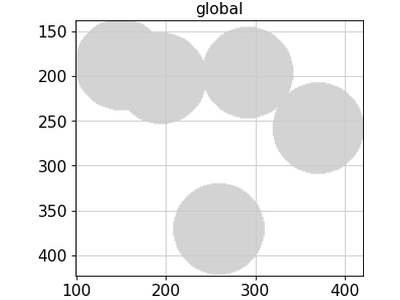
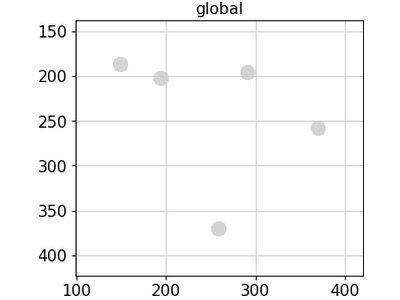
revert(shapes): as_points keeps size-based markers on both backends
Drop the datashader-only circle-radius override for as_points: it made the same
render_shapes(as_points=True, size=...) call diverge between backends (datashader
discs vs matplotlib markers). as_points is a size-controlled speedup; both
backends now use the marker size, matching each other (as the polygon
permutation grid already demonstrates). Restores the pre-override as_points
datashader baseline. Keeps the layout-invariant marker-size fix and the faithful
continuous-color reduction, which are what make the backends agree.

Changed region(s): [[0.18, 0.06, 0.93, 0.6], [0.42, 0.6, 0.66, 0.93]]

diff --git a/tests/pl/test_render_shapes.py b/tests/pl/test_render_shapes.py
@@ -57,13 +57,7 @@ def _annotate_polygons_with_outline_columns(sdata: SpatialData) -> SpatialData:
 
 class TestShapes(PlotTester, metaclass=PlotTesterMeta):
     def test_plot_circle_render_permutations(self, monkeypatch):
-        """2x2 of (geometry / as_points) x (matplotlib / datashader).
-
-        geometry: both backends render the true radius=3 discs. as_points: the datashader backend sizes the
-        dots to the circle radius (so it matches the geometry row), while the matplotlib backend uses the
-        marker ``size`` (scatter markers are display-sized, not data-sized, so it can't cheaply match a
-        world-radius disc) and therefore shows smaller dots — an expected backend difference.
-        """
+        """2x2 of (geometry / as_points) x (matplotlib / datashader); each row should look similar across backends."""
         import spatialdata_plot.pl.render as render_mod
 
         # exercise the datashader circle fast-path (points) on this small uniform set
@@ -1159,17 +1153,16 @@ class TestShapes(PlotTester, metaclass=PlotTesterMeta):
 
     @staticmethod
     def _as_points(sdata_blobs: SpatialData, method: str):
-        # blobs_circles is uniform-radius: the datashader backend sizes the dots to the true disc radius
-        # (so as_points matches the geometry render), while matplotlib uses the marker `size` (scatter
-        # markers are display-sized, not data-sized). The two backends therefore differ for circles.
+        # identical params for both backends; size=120 keeps dots non-overlapping, where the engines agree
+        # (they only diverge on overlap: matplotlib stacks markers, datashader aggregates)
         return sdata_blobs.pl.render_shapes("blobs_circles", as_points=True, method=method, size=120)
 
     def test_plot_shapes_as_points_matplotlib(self, sdata_blobs: SpatialData):
-        """as_points draws one dot per shape at its centroid; matplotlib uses the marker `size`."""
+        """as_points draws one dot per shape at its centroid (matplotlib backend)."""
         self._as_points(sdata_blobs, "matplotlib").pl.show()
 
     def test_plot_shapes_as_points_datashader(self, sdata_blobs: SpatialData):
-        """Datashader sizes uniform-circle as_points dots to the true radius, matching the geometry render."""
+        """Same render via datashader; should look maximally similar to the matplotlib baseline."""
         self._as_points(sdata_blobs, "datashader").pl.show()
 
 

diff --git a/src/spatialdata_plot/pl/render.py b/src/spatialdata_plot/pl/render.py
@@ -768,18 +768,7 @@ def _render_shapes(
         # Fast mode: draw one dot per shape at its centroid instead of its geometry.
         logger.info("`as_points=True`: rendering shape centroids; `outline_*` and `shape` are ignored.")
         centroids = shapes.geometry.centroid  # intrinsic; transform so dots land under non-identity transforms
-        # Uniform-radius circles: size the datashader dots to the true disc so they match the geometry
-        # render. The matplotlib backend keeps the marker `size` (scatter markers are display-sized, not
-        # data-sized, so a world-radius disc there would mean re-drawing the geometry and lose the speedup).
-        radius_cs: float | None = None
-        if "radius" in shapes.columns and (shapes.geometry.type == "Point").all():
-            r = pd.to_numeric(shapes["radius"], errors="coerce").to_numpy()
-            if r.size and np.ptp(r) == 0 and np.isfinite(r[0]):
-                stretch = float(np.linalg.svd(trans.get_matrix()[:2, :2], compute_uv=False).max())
-                radius_cs = float(r[0]) * render_params.scale * stretch
-        _draw_centroids(
-            trans.transform(np.column_stack([centroids.x.to_numpy(), centroids.y.to_numpy()])), radius=radius_cs
-        )
+        _draw_centroids(trans.transform(np.column_stack([centroids.x.to_numpy(), centroids.y.to_numpy()])))
         return
 
     # convert shapes if necessary